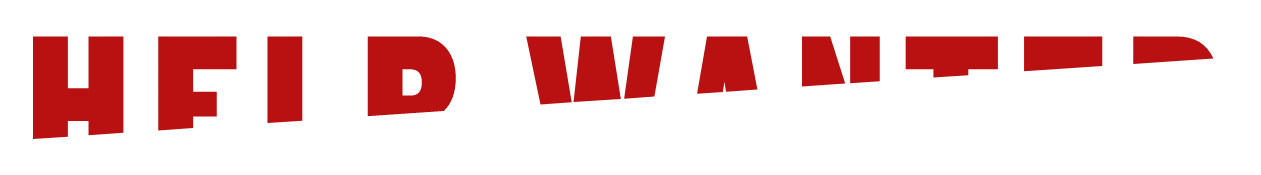
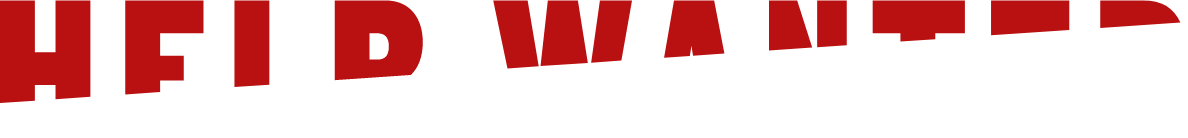
fix section2

Changed region(s): [[0.4049, 0.0, 0.9966, 0.6087], [0.0, 0.0, 0.2492, 0.8116], [0.2803, 0.0, 0.3737, 0.6667]]

diff --git a/ASDHomePage.html b/ASDHomePage.html
@@ -200,19 +200,34 @@
                     </div>
                 </div>
             </div>
-            <div style="background-color: rgba(0, 0, 0, 0.24); display: block; padding: 90px 0;">
+            <div style="display: block; padding: 30px 0 90px 0;">
                 <div class="container">
                     <div class="col">
-                       <div style="padding-bottom: 30px;">
-                        <img style="height: 105px; width: 700px;" src=images/help-wanted-tulisan.png>
-                       </div>
-                       <div class="row">
-                            <div class="col-4 align-items-center">
-                                <img style="width: 250px; height: 400px;" src=images/matt-help.png>
+                        <div style="margin-bottom: 30px;">
+                            <img style="width: 70%;" src=images/help-wanted-tulisan.png>
+                        </div>
+                        <div style="display: flex; flex-direction: row;">
+                            <div style="width: 24%;">
+                                <img style="width: 90%;" src=images/matt-help.png>
+                            </div>
+
+                            <div style="width: 76%; background-color: white; border-radius: 20px; display: flex; justify-content: center; align-items: center; flex-direction: column; padding: 40px;">
+                                <p style="font-size: 30px; margin-bottom: 0; line-height: normal; font-weight: bold; color: black;">OUR MASCOT MATT NEEDS YOUR HELP</p>
+                                <p style="font-size: 30px; margin-bottom: 30px; line-height: normal; font-weight: bold; color: black;">TO SAVE HIS GIRLFRIEND META </p>
+
+                                <p style="font-size: 20px; font-weight: 400; text-align: center; line-height: 36px !important;">Play our game (Click "Battle") and win cash rewards with a total of 350k by posting an
+                                    instagram story of your journey while saving Meta on our website and tagging us
+                                    @asd.prasmul !</p>
+                            </div>
+                        </div>
+                        <!-- <div class="row">
+                            <div class="col-4 align-items-center" style="width: 30%;">
+                                <img style="width: 100%;" src=images/matt-help.png>
                             </div>
                             <div class="col-8">
-                                <div style="background-color:white; border-radius: 10px; padding: 20px; box-shadow:0 0 10px 2px rgba(0, 0, 0, 0.212); height: 400px; ">
-        
+                                <div
+                                    style="background-color:white; border-radius: 10px; padding: 20px; box-shadow:0 0 10px 2px rgba(0, 0, 0, 0.212); height: 400px; ">
+                
                                     <div class="row justify-content-center" style="text-align: center; margin-top: 10px;">
                                         <h2 style="font-size: 30px;">Our mascot Matt needs Your help<br> to save
                                             his girlfriend Meta<h2>
@@ -220,14 +235,16 @@
                                     <div class="row" style="padding: 30px;">
                                         <div class="col">
                                             <p style="color: black; text-align: center;">
-                                                Play our game (Click "Battle") and win cash rewards with a total of 350k by posting an instagram story of your journey while saving Meta on our website and tagging us @asd.prasmul !
+                                                Play our game (Click "Battle") and win cash rewards with a total of 350k by posting an
+                                                instagram story of your journey while saving Meta on our website and tagging us
+                                                @asd.prasmul !
                                             </p>
                                         </div>
                                     </div>
-                             
+                
                                 </div>
                             </div>
-                       </div>
+                        </div> -->
                     </div>
                 </div>
             </div>
